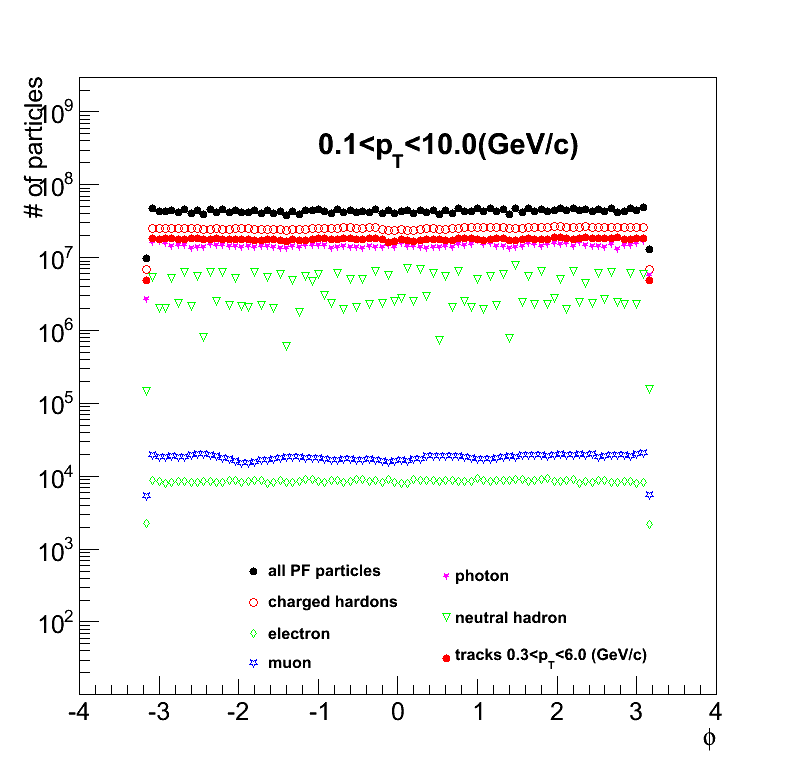
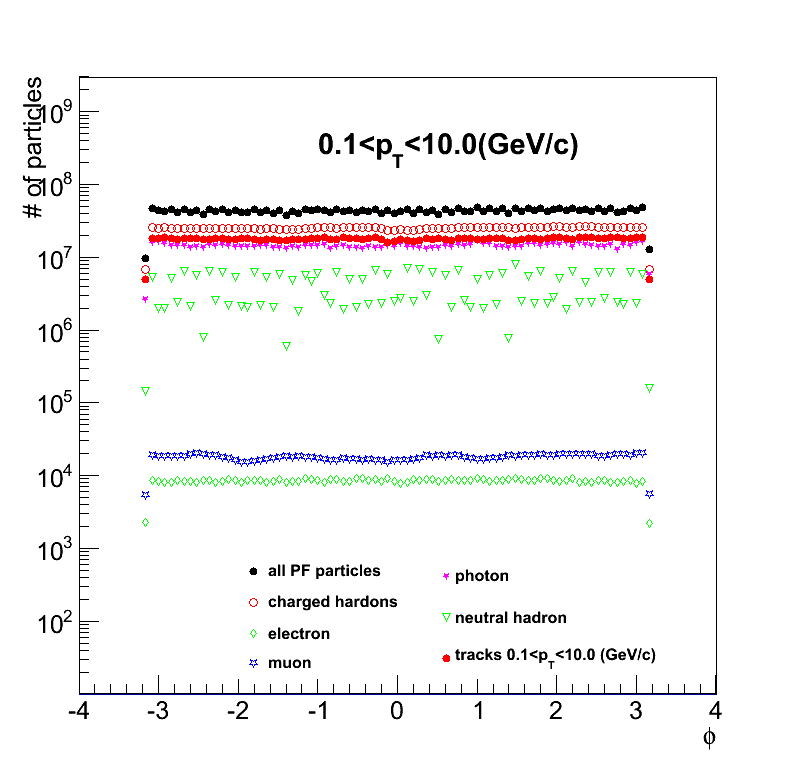
self matching

diff --git a/flow/LYZ/v2/Quality/DrawPFQuality.C b/flow/LYZ/v2/Quality/DrawPFQuality.C
@@ -62,7 +62,7 @@ void DrawPFQuality(){
         for(int iID=4;iID<nID;iID++){
 	tl2->AddEntry(hpt_PF[iID],particleleg[iID],"p");
         }
-	tl2->AddEntry(hpt_tr03to6,"tracks 0.3<p_{T}<6.0 (GeV/c)","p");
+	tl2->AddEntry(hpt_tr03to6,"tracks 0.1<p_{T}<10.0 (GeV/c)","p");
 	tl1->Draw("same");
 	tl2->Draw("same");
 //	TH1D* ratio = (TH1D*)hpt_PFon->Clone();
